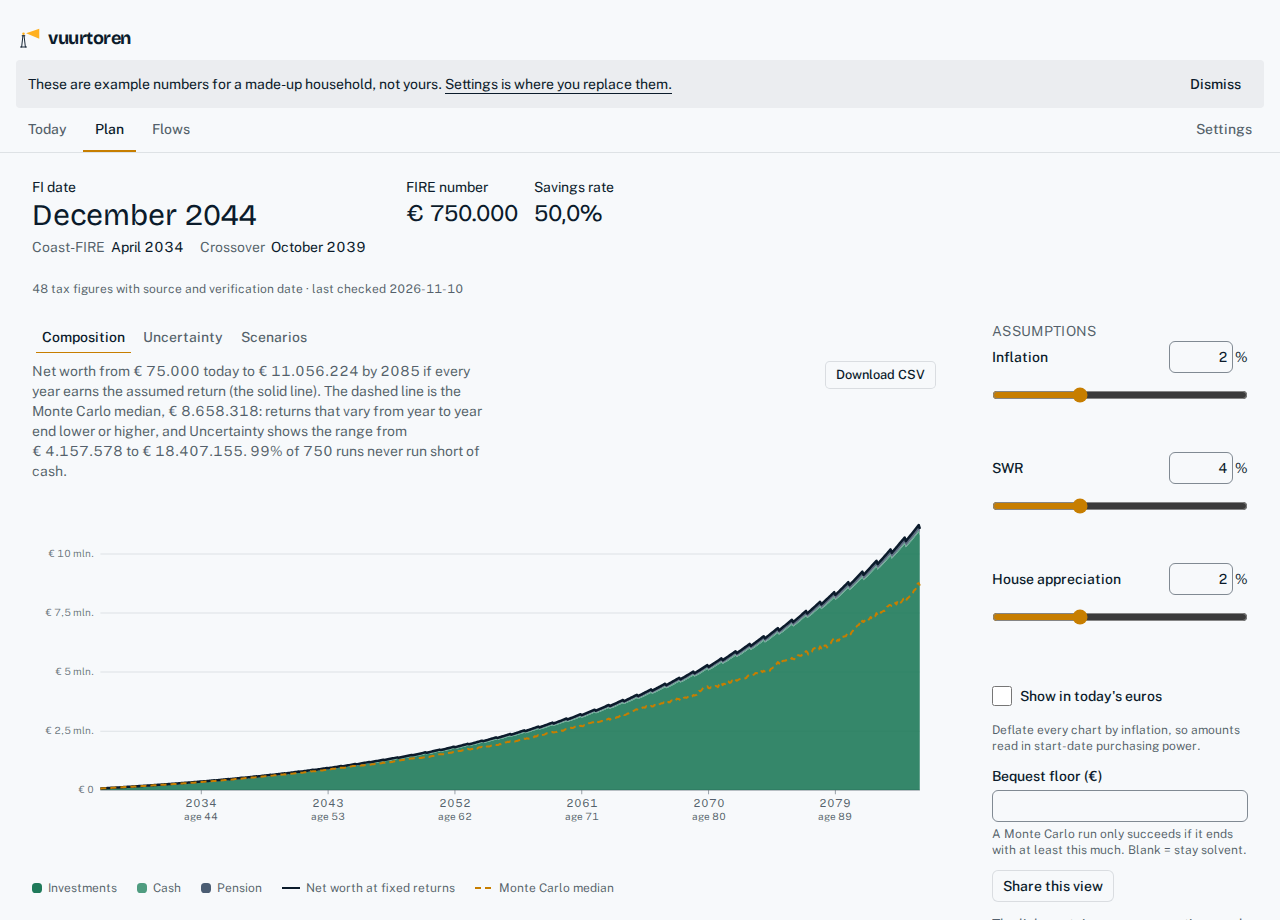
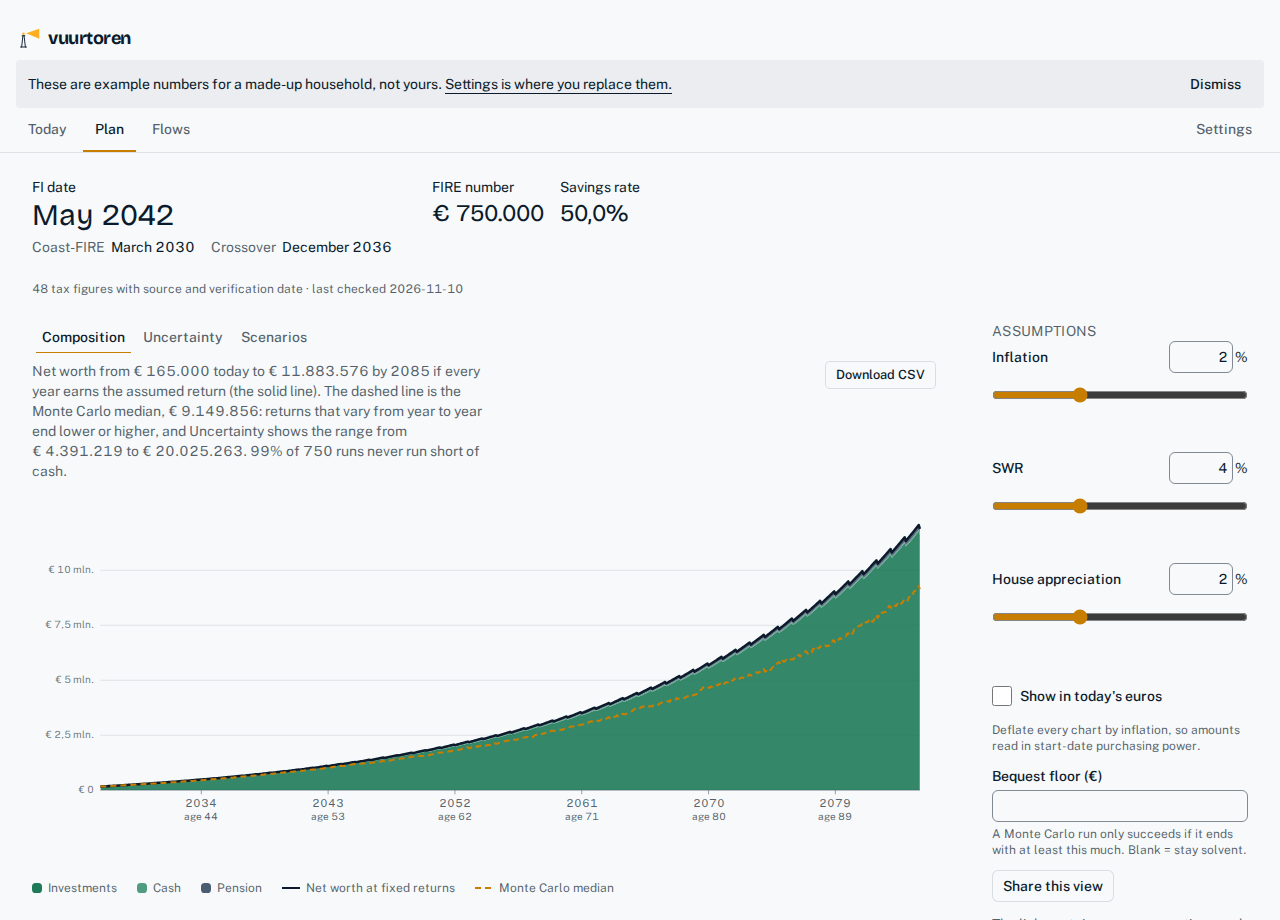
feat: draw the card and the README screenshot from the plain example household
The example now reaches FI in May 2042, so the card no longer needs a card-only
scenario (fund at 125,000). Both images show the same example as the demo.

- scripts/og-card.mjs drops CARD_FUND and reads the example as shipped
- og:image:alt, CONTRIBUTING and the card's source comment say May 2042 / the example household
- og.png and docs/assets/plan.png re-rendered; the og.png?v= hash follows at build time

diff --git a/docs/og-card.html b/docs/og-card.html
@@ -6,9 +6,8 @@
      The lighthouse beam is the Plan's own Monte Carlo fan: the lamp sits at today's net
      worth, the 10th to 90th percentile band is the light cone, the median is its bright
      core, and the thin line is the fixed-return projection. All series are in today's
-     euros, so the FIRE number is one flat shoreline, and they are the card scenario in
-     scripts/og-card.mjs (the example household with a larger fund). The JSON block is
-     rewritten by that script from the running app; never edit it.
+     euros, so the FIRE number is one flat shoreline. They are the example household's. The
+     JSON block is rewritten by that script from the running app; never edit it.
      Text that must be read sits inside the centred 630 px (x 285 to 915). -->
 <style>
   @font-face { font-family: "Bricolage Grotesque"; font-weight: 700; src: url("../frontend/node_modules/@fontsource/bricolage-grotesque/files/bricolage-grotesque-latin-700-normal.woff2"); }
@@ -42,7 +41,7 @@
   <div class="line">A FIRE planner with sourced Dutch tax calculations</div>
   <div class="addr">simonvanlierde.com/vuurtoren</div>
 </div>
-<script id="plan" type="application/json">{"fi":"2042-09-01","fire":750000,"m":["2026-11-01","2026-12-01","2027-01-01","2027-02-01","2027-03-01","2027-04-01","2027-05-01","2027-06-01","2027-07-01","2027-08-01","2027-09-01","2027-10-01","2027-11-01","2027-12-01","2028-01-01","2028-02-01","2028-03-01","2028-04-01","2028-05-01","2028-06-01","2028-07-01","2028-08-01","2028-09-01","2028-10-01","2028-11-01","2028-12-01","2029-01-01","2029-02-01","2029-03-01","2029-04-01","2029-05-01","2029-06-01","2029-07-01","2029-08-01","2029-09-01","2029-10-01","2029-11-01","2029-12-01","2030-01-01","2030-02-01","2030-03-01","2030-04-01","2030-05-01","2030-06-01","2030-07-01","2030-08-01","2030-09-01","2030-10-01","2030-11-01","2030-12-01","2031-01-01","2031-02-01","2031-03-01","2031-04-01","2031-05-01","2031-06-01","2031-07-01","2031-08-01","2031-09-01","2031-10-01","2031-11-01","2031-12-01","2032-01-01","2032-02-01","2032-03-01","2032-04-01","2032-05-01","2032-06-01","2032-07-01","2032-08-01","2032-09-01","2032-10-01","2032-11-01","2032-12-01","2033-01-01","2033-02-01","2033-03-01","2033-04-01","2033-05-01","2033-06-01","2033-07-01","2033-08-01","2033-09-01","2033-10-01","2033-11-01","2033-12-01","2034-01-01","2034-02-01","2034-03-01","2034-04-01","2034-05-01","2034-06-01","2034-07-01","2034-08-01","2034-09-01","2034-10-01","2034-11-01","2034-12-01","2035-01-01","2035-02-01","2035-03-01","2035-04-01","2035-05-01","2035-06-01","2035-07-01","2035-08-01","2035-09-01","2035-10-01","2035-11-01","2035-12-01","2036-01-01","2036-02-01","2036-03-01","2036-04-01","2036-05-01","2036-06-01","2036-07-01","2036-08-01","2036-09-01","2036-10-01","2036-11-01","2036-12-01","2037-01-01","2037-02-01","2037-03-01","2037-04-01","2037-05-01","2037-06-01","2037-07-01","2037-08-01","2037-09-01","2037-10-01","2037-11-01","2037-12-01","2038-01-01","2038-02-01","2038-03-01","2038-04-01","2038-05-01","2038-06-01","2038-07-01","2038-08-01","2038-09-01","2038-10-01","2038-11-01","2038-12-01","2039-01-01","2039-02-01","2039-03-01","2039-04-01","2039-05-01","2039-06-01","2039-07-01","2039-08-01","2039-09-01","2039-10-01","2039-11-01","2039-12-01","2040-01-01","2040-02-01","2040-03-01","2040-04-01","2040-05-01","2040-06-01","2040-07-01","2040-08-01","2040-09-01","2040-10-01","2040-11-01","2040-12-01","2041-01-01","2041-02-01","2041-03-01","2041-04-01","2041-05-01","2041-06-01","2041-07-01","2041-08-01","2041-09-01","2041-10-01","2041-11-01","2041-12-01","2042-01-01","2042-02-01","2042-03-01","2042-04-01","2042-05-01","2042-06-01","2042-07-01","2042-08-01","2042-09-01","2042-10-01","2042-11-01","2042-12-01","2043-01-01","2043-02-01","2043-03-01","2043-04-01","2043-05-01","2043-06-01","2043-07-01","2043-08-01","2043-09-01","2043-10-01","2043-11-01","2043-12-01","2044-01-01","2044-02-01","2044-03-01","2044-04-01","2044-05-01","2044-06-01","2044-07-01","2044-08-01","2044-09-01","2044-10-01","2044-11-01","2044-12-01","2045-01-01","2045-02-01","2045-03-01","2045-04-01","2045-05-01","2045-06-01","2045-07-01","2045-08-01","2045-09-01","2045-10-01","2045-11-01","2045-12-01","2046-01-01","2046-02-01","2046-03-01","2046-04-01","2046-05-01","2046-06-01","2046-07-01","2046-08-01","2046-09-01","2046-10-01","2046-11-01","2046-12-01","2047-01-01","2047-02-01","2047-03-01","2047-04-01","2047-05-01","2047-06-01","2047-07-01","2047-08-01","2047-09-01","2047-10-01","2047-11-01","2047-12-01","2048-01-01","2048-02-01","2048-03-01","2048-04-01","2048-05-01","2048-06-01","2048-07-01","2048-08-01","2048-09-01","2048-10-01","2048-11-01","2048-12-01","2049-01-01","2049-02-01","2049-03-01","2049-04-01","2049-05-01","2049-06-01","2049-07-01","2049-08-01","2049-09-01","2049-10-01","2049-11-01","2049-12-01","2050-01-01","2050-02-01","2050-03-01","2050-04-01","2050-05-01","2050-06-01","2050-07-01","2050-08-01","2050-09-01","2050-10-01","2050-11-01","2050-12-01","2051-01-01","2051-02-01","2051-03-01","2051-04-01","2051-05-01","2051-06-01","2051-07-01","2051-08-01","2051-09-01","2051-10-01","2051-11-01","2051-12-01","2052-01-01","2052-02-01","2052-03-01","2052-04-01","2052-05-01","2052-06-01","2052-07-01","2052-08-01","2052-09-01","2052-10-01","2052-11-01","2052-12-01","2053-01-01","2053-02-01","2053-03-01","2053-04-01","2053-05-01","2053-06-01","2053-07-01","2053-08-01","2053-09-01","2053-10-01","2053-11-01","2053-12-01","2054-01-01","2054-02-01","2054-03-01","2054-04-01","2054-05-01","2054-06-01","2054-07-01","2054-08-01","2054-09-01","2054-10-01","2054-11-01","2054-12-01","2055-01-01","2055-02-01","2055-03-01","2055-04-01","2055-05-01","2055-06-01","2055-07-01","2055-08-01","2055-09-01","2055-10-01","2055-11-01","2055-12-01","2056-01-01","2056-02-01","2056-03-01","2056-04-01","2056-05-01","2056-06-01","2056-07-01","2056-08-01","2056-09-01","2056-10-01","2056-11-01","2056-12-01","2057-01-01","2057-02-01","2057-03-01","2057-04-01","2057-05-01","2057-06-01","2057-07-01","2057-08-01","2057-09-01","2057-10-01","2057-11-01","2057-12-01","2058-01-01","2058-02-01","2058-03-01","2058-04-01","2058-05-01","2058-06-01","2058-07-01","2058-08-01","2058-09-01","2058-10-01","2058-11-01","2058-12-01","2059-01-01","2059-02-01","2059-03-01","2059-04-01","2059-05-01","2059-06-01","2059-07-01","2059-08-01","2059-09-01","2059-10-01","2059-11-01","2059-12-01","2060-01-01","2060-02-01","2060-03-01","2060-04-01","2060-05-01","2060-06-01","2060-07-01","2060-08-01","2060-09-01","2060-10-01","2060-11-01","2060-12-01","2061-01-01","2061-02-01","2061-03-01","2061-04-01","2061-05-01","2061-06-01","2061-07-01","2061-08-01","2061-09-01","2061-10-01"],"fixed":[140000,142919,145374,148281,151190,154102,157016,159932,162856,165789,168731,171684,174647,177619,178614,181602,184597,187603,190619,193645,196681,199727,202783,205849,208926,212013,212166,215271,218379,221498,224626,227766,230916,234076,237247,240429,243621,246824,246377,249600,252826,256059,259304,262559,265825,269102,272390,275689,278999,282320,281260,284603,287949,291300,294663,298036,301420,304816,308224,311642,315072,318514,316829,320295,323764,327236,330719,334212,337718,341235,344764,348305,351857,355421,353098,356688,360283,363881,367485,371102,374731,378372,382025,385690,389367,393057,390082,393799,397521,401247,404978,408720,412474,416241,420021,423813,427618,431435,427794,431641,435494,439350,443212,447082,450964,454860,458768,462690,466624,470572,466252,470231,474216,478206,482202,486202,490215,494242,498282,502335,506403,510483,505469,509584,513704,517830,521962,526098,530245,534405,538580,542768,546970,551186,545464,549712,553967,558227,562493,566765,571048,575344,579655,583981,588321,592675,586237,590622,595013,599410,603814,608223,612644,617080,621530,625996,630476,634971,627804,632327,636858,641395,645938,650489,655051,659628,664221,668829,673452,678091,670180,674845,679517,684197,688883,693576,698282,703004,707742,712495,717264,722050,713381,718190,723007,727832,732664,737503,742356,747225,752110,757012,761930,766864,757422,762379,767343,772316,777296,782285,787287,792306,797342,802395,807464,812551,802321,807428,812543,817666,822798,827938,833093,838265,843454,848661,853885,859127,848093,853353,858622,863899,869185,874479,879790,885118,890464,895828,901210,906610,894757,900173,905597,911031,916475,921927,927396,932883,938389,943913,949456,955017,942329,947903,953487,959081,964685,970298,975929,981578,987247,992934,998640,1004366,990826,996563,1002310,1008067,1013834,1019611,1025406,1031221,1037056,1042909,1048783,1054676,1040268,1046170,1052082,1058005,1063939,1069884,1075847,1081830,1087834,1093857,1099901,1105965,1090672,1096742,1102824,1108916,1115020,1121135,1127270,1133425,1139601,1145797,1152014,1158252,1142057,1148299,1154553,1160818,1167095,1173384,1179693,1186023,1192375,1198748,1205142,1211557,1194442,1200860,1207289,1213730,1220184,1226650,1233137,1239646,1246177,1252729,1259304,1265900,1247848,1254443,1261051,1267672,1274306,1280953,1287621,1294313,1301026,1307762,1314520,1321301,1302293,1309070,1315861,1322665,1329482,1336313,1343167,1350044,1356943,1363866,1370812,1377781,1357798,1364761,1371737,1378728,1385732,1392751,1399794,1406860,1413949,1421063,1428200,1435360,1414383,1421535,1428702,1435883,1443078,1450289,1457523,1464782,1472065,1479373,1486705,1494061,1472071,1479416,1486776,1494150,1501540,1508946,1516377,1523833,1531313,1538819,1546349,1553905,1530882,1538423,1545980,1553553,1561141,1568746,1576377,1584033,1591715,1599422,1607155,1614914,1590815,1598557,1606315,1614089,1621879,1629687,1637522,1645382,1653269,1661182,1669121,1677087,1689637,1697709,1705798,1713904,1722028,1730171,1738341,1746539,1754763,1763016,1771296,1779603,1753301,1761586,1769890,1778211,1786550,1794909,1803295,1811710,1820152,1828623],"p10":[150000,144776,145383,144226,144906,144701,145620,147703,149383,151083,152825,154184,156270,157465,159458,161219,163608,165014,165885,166861,167845,168345,172216,171755,171992,174507,174637,179437,179425,182214,184788,187557,186949,190406,191858,193452,193490,195743,197710,197415,199907,203438,203685,201952,203472,206731,207387,207612,210210,212631,215774,219416,221044,221388,221981,225138,226042,228439,227451,229976,232991,235032,235734,238127,240466,244806,245606,246222,249202,250432,252504,254339,256249,255808,260238,259615,260319,262454,263416,266384,267824,269541,270287,274378,275503,274299,275433,277086,282853,284756,286106,288788,285766,288852,289877,293946,296767,299120,300857,300968,305731,304940,306896,308259,305613,311969,311930,317316,317519,319612,322769,325736,330010,333689,333445,336411,336036,338319,339701,340140,341876,346090,347006,347368,346902,348627,352030,355597,355652,357101,362771,364822,363977,365217,365568,369481,375130,374493,377302,381759,380138,381312,381157,384246,383405,388642,387811,384710,383830,390346,389066,397677,397183,396778,395560,398551,396239,403336,401407,405184,401405,394564,402552,407756,407270,411382,413673,409394,414487,414820,420340,422493,424023,424267,424155,429571,432227,431630,437066,443765,439199,444442,440471,445993,443204,450489,446952,447237,460529,459024,460384,458216,456726,463676,472446,478433,475093,481603,477946,473749,476023,482309,479306,475981,476673,467394,463071,473047,470559,471085,477711,480557,480069,488392,487848,492025,485720,488928,510250,501886,501261,503420,518432,520617,523853,532988,530047,528742,532383,528597,532284,529524,535622,536429,537401,540797,540325,541575,541421,547207,547350,555066,549464,555088,545030,554489,560966,557078,569662,570379,566658,563484,574290,573543,582304,584510,583110,578162,578379,571883,576058,576540,584526,583700,596589,588390,598611,589016,590560,589969,581305,583263,572860,581877,589689,579172,586058,594780,591864,587248,583239,586052,596002,595832,591286,607059,605876,603935,611045,610320,617481,622354,617730,618098,629342,618948,620835,618897,615366,608026,619883,616001,618113,625143,613866,625220,622163,627872,630295,627536,630803,629063,635565,627614,630127,637402,641675,648212,642830,653708,656026,648901,665858,663611,659704,659520,668709,662006,673463,677471,680181,682410,682993,679144,673878,670461,674102,693504,703041,697614,694805,694489,705498,700412,707446,709874,713479,710290,700249,710764,724051,709506,706175,713332,722286,717094,720646,720072,728795,731579,733310,743113,755576,743830,746174,752755,757313,761426,768691,766425,761575,757780,746589,751884,762503,767636,766326,772947,771805,773153,767873,768240,764651,764609,760038,761192,766205,776610,786034,797136,796424,810834,811086,813588,823051,825296,829032,821422,815823,813826,813634,826985,833731,829081,841677,841810,830161,834498,838262,844441,844672,866652,847261,848393,847144,865587,848466,845313,847117,840351],"p50":[150000,153551,155202,157327,159891,163679,166342,168733,171485,174818,178157,181401,182146,185209,186961,190144,193454,195263,196575,200992,204486,206555,209316,211603,215049,218390,216848,218673,220119,224609,227289,227855,231260,234668,238407,242646,244434,247702,249015,252276,255861,257553,259774,263429,264218,267818,271611,273855,278226,280413,279325,281139,283025,286023,290527,291101,294280,299846,301034,303766,308208,310703,309499,309962,315125,314393,319368,322069,328080,331184,334817,337662,343947,346682,344885,349447,350753,353905,352441,358648,360757,362783,364421,368750,374538,377256,376779,382028,387976,390078,393121,394386,398586,400629,405445,411213,415036,416923,415331,420128,424567,425084,430576,432873,434590,438596,440664,440564,445510,452377,449849,452988,455764,459806,468088,470333,473114,476098,481434,483224,487169,492757,492736,495149,500335,506803,503539,506590,509540,517655,518745,519263,525213,527220,526107,530580,535914,535877,546257,546017,552721,557349,556681,562481,568705,572109,565686,576172,578000,577519,583114,588345,591507,591835,600964,601563,607738,611854,603514,604185,612611,613991,621331,625477,624636,630412,631189,630872,631524,643332,637262,648532,649371,650978,660460,666588,666921,675477,675051,681339,680982,682097,678072,683731,684289,694582,688826,694933,703410,701894,707875,713498,719780,722078,723741,720970,730195,737715,743228,749731,749714,754044,754573,757518,772498,776145,769247,768059,768550,767973,775182,781677,791576,795416,807764,810411,809432,813207,803625,809276,817716,816346,815630,820986,823375,824514,832493,829544,828494,836893,829763,837852,837286,839208,851302,852299,847479,854295,860174,867121,866846,884882,861545,876233,869115,876280,875619,884380,887916,892696,902509,897963,906928,911712,913557,922229,928028,926440,926883,946600,946718,945233,946900,952583,954870,963463,966840,966643,968910,962712,965665,968718,974979,972287,971735,978237,977550,989675,978239,987241,982613,996910,1001838,1008369,999835,1006435,1009154,1024675,1041731,1037926,1045826,1045224,1040864,1036342,1033487,1052237,1055953,1067918,1066472,1066718,1076852,1079493,1082269,1086499,1089537,1093952,1093323,1098905,1111182,1122396,1114533,1118922,1133115,1145059,1124530,1122530,1140417,1140151,1145196,1147227,1162789,1135643,1153759,1158982,1165920,1169088,1152805,1159722,1155008,1176292,1166747,1171720,1168284,1181063,1182303,1208116,1201502,1198386,1192542,1204529,1213499,1218356,1221764,1238772,1238232,1247495,1245489,1251803,1252809,1264679,1251496,1263471,1267223,1258485,1256847,1258991,1276911,1290657,1299100,1297912,1301635,1302049,1302568,1310742,1307651,1294077,1306316,1302583,1295012,1321056,1334789,1348068,1349833,1362294,1354718,1341966,1356176,1366587,1358583,1367664,1386672,1385475,1393220,1387603,1411820,1406934,1406665,1404365,1400732,1417167,1428559,1425893,1421629,1425219,1416741,1427990,1453007,1446052,1449095,1448067,1466232,1473627,1467860,1473205,1486748,1486626,1491415,1486301,1488600,1496408,1490765,1494668,1511069,1508506,1529702,1520031,1535995,1532680,1548738,1544801],"p90":[150000,161220,165966,170639,177375,181874,187724,190710,196407,199446,204637,209883,214443,218455,221545,225095,229750,233669,237586,245262,249607,253842,259884,263819,266162,274322,265071,269812,271668,278439,283984,291287,292677,299219,305736,310409,314005,319170,313042,314304,322980,325739,337455,340687,347067,349023,355290,362413,364914,369595,355259,363982,367329,376375,379899,382692,393723,398566,402337,404471,408858,419225,399457,408250,421948,422864,430369,429264,429000,444800,448610,457274,459111,469432,456177,463384,465750,471518,468291,475463,482360,494469,493460,502146,507192,518533,505528,509795,513492,525925,527505,540930,548643,554419,560365,571591,579138,580835,566258,567327,573493,580198,593157,600345,609611,615672,614032,627142,647241,641098,613496,618200,632243,635492,640219,652259,660965,668673,665635,682154,690828,693603,678108,685994,693848,702285,704605,713830,720546,732408,747908,750647,759982,766256,742572,742289,752496,754513,767696,773934,792913,792403,809897,817621,833120,833288,803272,809783,810306,826059,837215,865258,865162,864675,882450,898934,904518,912966,878423,882500,900200,899469,910701,925831,946806,940868,966335,974302,963736,994553,946461,970198,965001,974711,984795,990388,996537,1004998,1018155,1023129,1036389,1048339,1000862,1014175,1017499,1035933,1048108,1052840,1061318,1077955,1069670,1081370,1097650,1108708,1091796,1093180,1099560,1114582,1135269,1140705,1145372,1152383,1180706,1183445,1178961,1187833,1161105,1174734,1192443,1198816,1196708,1228748,1223841,1249062,1248167,1247538,1240423,1276244,1225431,1243822,1245383,1273741,1245140,1291356,1284228,1328800,1320151,1319732,1321106,1353419,1303856,1324184,1351091,1349866,1348731,1370404,1360132,1378395,1411159,1418409,1453686,1441437,1414018,1415643,1429747,1424985,1465975,1482500,1487128,1487989,1494860,1509431,1522199,1559837,1482576,1490054,1499572,1525647,1535388,1545457,1561095,1583502,1616300,1625549,1632585,1609254,1577336,1577914,1583147,1605370,1629911,1630066,1662467,1636619,1650553,1658957,1654327,1682899,1661624,1671875,1692568,1700780,1701558,1721295,1740225,1768136,1814133,1767071,1814695,1819514,1770452,1778372,1805351,1797018,1814945,1842651,1872966,1882503,1897671,1906859,1878973,1917237,1870232,1874952,1855806,1861030,1889423,1908415,1899791,1923089,1947999,1992864,2002797,2020175,1959597,1982760,1950634,1936287,1974983,2017221,2018632,2007226,2029574,2053814,2058768,2108609,2055991,2037621,2048447,2035808,2052102,2090590,2124867,2119144,2139184,2158909,2184636,2183016,2091738,2126208,2131733,2139727,2146534,2185294,2228075,2245118,2245278,2268536,2288248,2285639,2224743,2243705,2303580,2269353,2267416,2267187,2306880,2291601,2297666,2295399,2337784,2347641,2291081,2316202,2332155,2341331,2298652,2309807,2362139,2380476,2384228,2377266,2407895,2416015,2377313,2358269,2421534,2428373,2393886,2427967,2424202,2420050,2411641,2433610,2453112,2499059,2442302,2447737,2505346,2493653,2488175,2507055,2575159,2540420,2546568,2559153,2568830,2632331,2490602,2526719,2537842,2549111,2589458,2619396,2649678,2645149,2661222,2663063,2659508,2655123,2603646,2636216,2616848,2668148,2647915,2668003,2624038,2711669,2692450,2744974]}</script>
+<script id="plan" type="application/json">{"fi":"2042-05-01","fire":750000,"m":["2026-11-01","2026-12-01","2027-01-01","2027-02-01","2027-03-01","2027-04-01","2027-05-01","2027-06-01","2027-07-01","2027-08-01","2027-09-01","2027-10-01","2027-11-01","2027-12-01","2028-01-01","2028-02-01","2028-03-01","2028-04-01","2028-05-01","2028-06-01","2028-07-01","2028-08-01","2028-09-01","2028-10-01","2028-11-01","2028-12-01","2029-01-01","2029-02-01","2029-03-01","2029-04-01","2029-05-01","2029-06-01","2029-07-01","2029-08-01","2029-09-01","2029-10-01","2029-11-01","2029-12-01","2030-01-01","2030-02-01","2030-03-01","2030-04-01","2030-05-01","2030-06-01","2030-07-01","2030-08-01","2030-09-01","2030-10-01","2030-11-01","2030-12-01","2031-01-01","2031-02-01","2031-03-01","2031-04-01","2031-05-01","2031-06-01","2031-07-01","2031-08-01","2031-09-01","2031-10-01","2031-11-01","2031-12-01","2032-01-01","2032-02-01","2032-03-01","2032-04-01","2032-05-01","2032-06-01","2032-07-01","2032-08-01","2032-09-01","2032-10-01","2032-11-01","2032-12-01","2033-01-01","2033-02-01","2033-03-01","2033-04-01","2033-05-01","2033-06-01","2033-07-01","2033-08-01","2033-09-01","2033-10-01","2033-11-01","2033-12-01","2034-01-01","2034-02-01","2034-03-01","2034-04-01","2034-05-01","2034-06-01","2034-07-01","2034-08-01","2034-09-01","2034-10-01","2034-11-01","2034-12-01","2035-01-01","2035-02-01","2035-03-01","2035-04-01","2035-05-01","2035-06-01","2035-07-01","2035-08-01","2035-09-01","2035-10-01","2035-11-01","2035-12-01","2036-01-01","2036-02-01","2036-03-01","2036-04-01","2036-05-01","2036-06-01","2036-07-01","2036-08-01","2036-09-01","2036-10-01","2036-11-01","2036-12-01","2037-01-01","2037-02-01","2037-03-01","2037-04-01","2037-05-01","2037-06-01","2037-07-01","2037-08-01","2037-09-01","2037-10-01","2037-11-01","2037-12-01","2038-01-01","2038-02-01","2038-03-01","2038-04-01","2038-05-01","2038-06-01","2038-07-01","2038-08-01","2038-09-01","2038-10-01","2038-11-01","2038-12-01","2039-01-01","2039-02-01","2039-03-01","2039-04-01","2039-05-01","2039-06-01","2039-07-01","2039-08-01","2039-09-01","2039-10-01","2039-11-01","2039-12-01","2040-01-01","2040-02-01","2040-03-01","2040-04-01","2040-05-01","2040-06-01","2040-07-01","2040-08-01","2040-09-01","2040-10-01","2040-11-01","2040-12-01","2041-01-01","2041-02-01","2041-03-01","2041-04-01","2041-05-01","2041-06-01","2041-07-01","2041-08-01","2041-09-01","2041-10-01","2041-11-01","2041-12-01","2042-01-01","2042-02-01","2042-03-01","2042-04-01","2042-05-01","2042-06-01","2042-07-01","2042-08-01","2042-09-01","2042-10-01","2042-11-01","2042-12-01","2043-01-01","2043-02-01","2043-03-01","2043-04-01","2043-05-01","2043-06-01","2043-07-01","2043-08-01","2043-09-01","2043-10-01","2043-11-01","2043-12-01","2044-01-01","2044-02-01","2044-03-01","2044-04-01","2044-05-01","2044-06-01","2044-07-01","2044-08-01","2044-09-01","2044-10-01","2044-11-01","2044-12-01","2045-01-01","2045-02-01","2045-03-01","2045-04-01","2045-05-01","2045-06-01","2045-07-01","2045-08-01","2045-09-01","2045-10-01","2045-11-01","2045-12-01","2046-01-01","2046-02-01","2046-03-01","2046-04-01","2046-05-01","2046-06-01","2046-07-01","2046-08-01","2046-09-01","2046-10-01","2046-11-01","2046-12-01","2047-01-01","2047-02-01","2047-03-01","2047-04-01","2047-05-01","2047-06-01","2047-07-01","2047-08-01","2047-09-01","2047-10-01","2047-11-01","2047-12-01","2048-01-01","2048-02-01","2048-03-01","2048-04-01","2048-05-01","2048-06-01","2048-07-01","2048-08-01","2048-09-01","2048-10-01","2048-11-01","2048-12-01","2049-01-01","2049-02-01","2049-03-01","2049-04-01","2049-05-01","2049-06-01","2049-07-01","2049-08-01","2049-09-01","2049-10-01","2049-11-01","2049-12-01","2050-01-01","2050-02-01","2050-03-01","2050-04-01","2050-05-01","2050-06-01","2050-07-01","2050-08-01","2050-09-01","2050-10-01","2050-11-01","2050-12-01","2051-01-01","2051-02-01","2051-03-01","2051-04-01","2051-05-01","2051-06-01","2051-07-01","2051-08-01","2051-09-01","2051-10-01","2051-11-01","2051-12-01","2052-01-01","2052-02-01","2052-03-01","2052-04-01","2052-05-01","2052-06-01","2052-07-01","2052-08-01","2052-09-01","2052-10-01","2052-11-01","2052-12-01","2053-01-01","2053-02-01","2053-03-01","2053-04-01","2053-05-01","2053-06-01","2053-07-01","2053-08-01","2053-09-01","2053-10-01","2053-11-01","2053-12-01","2054-01-01","2054-02-01","2054-03-01","2054-04-01","2054-05-01","2054-06-01","2054-07-01","2054-08-01","2054-09-01","2054-10-01","2054-11-01","2054-12-01","2055-01-01","2055-02-01","2055-03-01","2055-04-01","2055-05-01","2055-06-01","2055-07-01","2055-08-01","2055-09-01","2055-10-01","2055-11-01","2055-12-01","2056-01-01","2056-02-01","2056-03-01","2056-04-01","2056-05-01","2056-06-01","2056-07-01","2056-08-01","2056-09-01","2056-10-01","2056-11-01","2056-12-01","2057-01-01","2057-02-01","2057-03-01","2057-04-01","2057-05-01","2057-06-01","2057-07-01","2057-08-01","2057-09-01","2057-10-01","2057-11-01","2057-12-01","2058-01-01","2058-02-01","2058-03-01","2058-04-01","2058-05-01","2058-06-01","2058-07-01","2058-08-01","2058-09-01","2058-10-01","2058-11-01","2058-12-01","2059-01-01","2059-02-01","2059-03-01","2059-04-01","2059-05-01","2059-06-01","2059-07-01","2059-08-01","2059-09-01","2059-10-01","2059-11-01","2059-12-01","2060-01-01","2060-02-01","2060-03-01","2060-04-01","2060-05-01","2060-06-01","2060-07-01","2060-08-01","2060-09-01","2060-10-01","2060-11-01","2060-12-01","2061-01-01","2061-02-01","2061-03-01","2061-04-01","2061-05-01","2061-06-01","2061-07-01","2061-08-01","2061-09-01","2061-10-01"],"fixed":[155000,157969,160420,163378,166338,169300,172266,175233,178208,181192,184187,187191,190205,193230,193937,196979,200026,203083,206150,209228,212316,215415,218523,221642,224772,227912,227782,230941,234103,237274,240456,243648,246851,250065,253289,256524,259770,263027,262291,265569,268850,272137,275435,278744,282064,285396,288738,292092,295457,298833,297477,300876,304278,307684,311101,314530,317969,321421,324883,328358,331844,335341,333354,336876,340402,343932,347470,351020,354582,358155,361741,365338,368948,372569,369936,373584,377237,380893,384555,388229,391914,395613,399323,403046,406782,410530,407237,411014,414795,418581,422372,426172,429985,433810,437648,441499,445363,449240,445275,449182,453095,457013,460935,464864,468806,472761,476730,480711,484706,488714,484062,488103,492150,496202,500259,504322,508396,512483,516584,520699,524828,528970,523616,527792,531973,536160,540353,544551,548760,552982,557218,561469,565733,570012,563946,568257,572573,576896,581224,585559,589904,594264,598638,603027,607431,611849,605061,609508,613962,618423,622890,627364,631849,636349,640863,645393,649938,654499,646974,651562,656156,660758,665366,669981,674608,679251,683909,688583,693272,697978,689702,694432,699170,703915,708667,713427,718199,722987,727792,732612,737449,742301,733260,738136,743019,747911,752810,757717,762637,767574,772527,777497,782484,787487,777665,782689,787721,792762,797811,802868,807939,813027,818132,823255,828394,833550,822932,828108,833292,838485,843686,848896,854121,859364,864624,869901,875196,880509,869080,874410,879749,885096,890453,895819,901201,906601,912019,917455,922909,928381,916124,921611,927108,932614,938129,943654,949196,954756,960335,965932,971548,977183,964083,969730,975388,981055,986732,992419,998124,1003847,1009590,1015352,1021133,1026934,1012974,1018785,1024606,1030437,1036279,1042132,1048002,1053893,1059803,1065733,1071682,1077652,1062815,1068793,1074781,1080780,1086790,1092811,1098851,1104911,1110991,1117092,1123214,1129355,1113626,1119773,1125931,1132101,1138282,1144475,1150687,1156921,1163175,1169450,1175747,1182064,1165423,1171743,1178075,1184419,1190775,1197143,1203532,1209942,1216373,1222826,1229301,1235797,1218228,1224724,1231233,1237755,1244289,1250835,1257403,1263994,1270606,1277240,1283896,1290575,1272059,1278736,1285425,1292127,1298843,1305571,1312322,1319096,1325892,1332711,1339553,1346418,1326937,1333797,1340670,1347557,1354457,1361372,1368309,1375270,1382254,1389261,1396292,1403347,1382881,1389928,1396989,1404064,1411153,1418257,1425385,1432536,1439712,1446911,1454135,1461382,1439914,1447151,1454403,1461670,1468952,1476249,1483570,1490916,1498287,1505682,1513102,1520546,1498055,1505487,1512934,1520396,1527874,1535368,1542887,1550431,1558001,1565595,1573215,1580861,1557327,1564957,1572603,1580264,1587942,1595637,1603357,1611103,1618876,1626674,1634498,1642348,1617752,1625584,1633432,1641297,1649178,1657078,1665003,1672956,1680935,1688940,1696972,1705032,1717088,1725252,1733433,1741632,1749848,1758084,1766348,1774639,1782957,1791304,1799678,1808081,1781275,1789654,1798051,1806467,1814900,1823354,1831835,1840345,1848884,1857450],"p10":[165000,158877,159326,157715,158142,157623,158320,160355,161862,163684,165291,166451,168612,169744,171833,173148,175677,177258,177829,178513,179709,179840,183782,183223,183135,185780,185788,190723,190723,193251,196288,198405,197942,201927,203247,204429,204522,206913,208525,208321,210890,214055,214314,212207,213788,217047,217410,217203,220028,222960,225753,229756,231141,232126,231178,235099,237322,238658,237805,239068,243295,245059,245725,248292,250609,255369,255386,256870,260248,260061,262354,264796,265546,266261,269738,269510,269197,271632,273870,277758,279077,278906,279854,284953,284264,284579,285877,287715,293886,295904,296025,298179,295727,298509,299423,303703,306649,308218,310786,311075,315859,315777,316067,317238,314006,320566,320316,326039,326975,329143,330503,335685,338931,343359,341738,346247,347062,348007,349594,349915,352243,355975,356067,355776,356848,357989,360721,365518,365118,365427,371986,374721,372621,373603,375443,378767,383686,384253,385236,390459,389606,390030,391228,393912,395318,397504,397213,395257,393139,398648,397387,406272,405550,406372,405499,405740,406682,412608,412745,415752,410653,403394,412145,416454,416230,420714,421383,419299,423126,425661,429409,432447,433226,433864,431056,437845,441694,440009,446065,452124,447564,452940,450382,456045,455075,460394,455984,455968,468971,466246,468603,467527,464681,472553,482638,487374,484958,489797,488211,483748,483751,491310,488106,485131,485248,476402,473302,481530,477493,479031,488293,489885,489691,497670,496814,502855,494094,499316,517041,509267,510475,510566,527885,531747,533295,541483,539283,539560,540638,536087,539389,536367,547756,546590,547438,550220,548010,549548,555041,557457,556475,564035,561172,563865,553485,564241,570679,566241,576738,579694,576057,572584,583197,580634,589617,592133,592269,590541,587808,584125,585154,586626,596759,593563,605721,598089,607758,597971,600057,598259,592164,593128,584191,591576,598226,589516,598552,602731,602374,594890,593685,594265,603984,607431,599027,615685,616279,616877,617571,622761,627589,632150,627484,627658,637123,627024,631383,626969,625682,616995,628983,624546,628135,630245,622922,631376,629888,633793,637235,637094,638881,636643,644703,635012,638279,646695,649754,654894,651916,663425,665961,654272,672071,671649,668136,668260,676235,670384,681083,689815,687267,693322,691204,685682,687230,680219,685420,702744,712755,703266,707149,705522,714224,710691,715548,720390,722502,721024,708859,718760,729528,718737,716112,722421,732510,725848,727229,727136,737608,741419,741741,749961,764461,751851,754764,756987,764114,770169,776402,774650,771576,765414,759048,761366,768966,776565,776421,782475,779987,783130,779719,776281,773104,772649,767651,770451,775728,785628,798393,808538,803352,821137,819186,821043,831976,832530,835521,830872,826868,820139,822932,835195,840854,838500,851263,854416,840334,845549,844432,856835,854776,873296,860481,857566,855507,875683,857169,853037,854807,847120],"p50":[165000,168655,170283,172238,174825,178752,181350,183801,186646,189870,193398,196584,197228,200418,202176,205011,208489,210664,211541,216068,219643,221718,224587,227028,230229,233686,231996,233697,235155,239598,242144,242933,246234,249565,253213,258453,259312,262751,263731,267754,270733,272591,274734,278691,279179,282945,286526,288891,293826,295556,294981,295239,297655,301336,305913,305277,309958,314873,316250,319101,323243,326189,324304,324983,329383,328973,334394,336926,343582,346798,349980,352319,359240,361241,360755,364796,366117,370295,367663,372783,377035,378553,380271,383611,391260,393295,391717,397193,403437,405305,408267,410578,415088,415998,420371,426770,431326,433135,430117,435969,440489,440205,446372,449211,449734,455970,457397,457031,461895,469246,464558,469245,471465,476677,485359,486850,488298,494014,496700,500117,503576,508738,508188,511499,517064,522138,520431,522516,526338,534778,536444,535893,540823,542963,542503,547265,551678,551287,562220,562519,569096,575352,574002,580973,585174,587991,582994,591830,595748,593605,600271,604108,609479,608641,618640,620067,624780,629486,620105,620419,630997,629217,638405,642847,641737,647603,647636,648717,648840,658786,654649,666175,666213,667268,677743,684793,685092,692124,692830,697770,698325,700166,695866,700287,701815,711298,705678,714511,720360,718562,727742,733536,737671,739486,740611,740036,749080,756437,763621,766701,767465,773781,773047,777498,791002,794779,786799,786154,787067,784917,793766,801089,810232,814463,825039,828397,825580,833298,822544,828962,835288,836088,834782,839178,839431,843604,849910,850246,846921,857470,848813,854697,854796,858010,869272,868265,867038,872371,876957,884531,886837,903194,883023,895512,887071,895040,895926,899886,905629,912447,923721,917694,927615,931925,934031,941908,945683,943890,947075,964348,966153,963802,966483,974004,972107,985111,988877,985474,989124,980079,982109,988115,994742,991323,992603,994220,997502,1007811,998821,1008524,1001997,1013711,1020549,1025103,1021317,1023552,1026782,1046531,1061544,1057243,1067187,1062931,1060596,1052710,1055372,1070112,1073112,1085023,1086185,1084641,1093094,1101005,1102377,1109089,1111005,1111946,1113430,1117125,1134916,1143892,1134316,1141191,1154700,1165932,1139841,1141985,1156425,1156939,1164047,1168895,1183492,1155336,1173656,1182863,1184821,1189590,1174100,1181050,1174090,1193622,1185434,1191841,1189110,1201430,1198327,1232050,1225121,1214805,1212610,1222379,1234482,1238908,1241977,1259859,1261077,1270834,1266140,1270660,1273359,1290035,1274080,1281013,1286003,1280787,1281524,1276279,1301111,1311615,1318813,1322711,1325096,1320453,1322893,1332930,1324278,1310067,1329116,1327100,1315128,1337318,1357326,1365555,1368184,1383577,1374860,1363601,1374263,1390072,1378067,1393269,1407176,1410943,1416901,1410785,1434562,1430502,1428736,1424188,1424022,1438489,1450618,1446143,1442060,1442172,1436725,1451525,1470650,1466303,1472451,1468239,1491133,1493617,1493674,1492803,1507848,1509550,1510090,1512132,1510387,1517573,1514949,1517951,1535299,1530796,1550371,1546318,1556686,1561988,1575027,1565853],"p90":[165000,177257,182097,187022,194302,199006,205037,208342,214180,217510,223003,228198,232995,237293,240478,244022,248764,252954,256658,265340,269624,274010,280314,284343,286100,295510,285138,289336,291739,298931,304713,311729,313584,320616,326813,331823,335935,339806,334325,335151,345138,347306,358586,363227,369264,371353,377494,384946,386836,392701,377899,385852,389296,398183,402960,404203,414935,421067,425323,427710,432734,442524,423045,430437,443759,443397,455728,450633,454174,468351,472526,481813,480822,494096,476907,485868,489520,494324,491384,497367,507262,517833,517804,525644,531139,544320,530153,534315,537303,550234,552558,568299,573594,580642,586087,594756,602919,608370,592316,592539,600025,606791,616910,624813,635729,643910,643059,653004,674120,668029,637066,643916,655932,661731,667716,676169,683921,695203,692151,706902,717755,720150,704842,715639,719455,729536,729795,738169,747515,761161,774502,777433,791674,793814,770454,771964,779956,782352,799948,801807,818429,821577,835112,844219,862314,858173,832545,839055,839868,853894,868222,893781,897185,898699,911821,930158,931495,943265,906059,911558,928163,928587,936645,957532,976993,969065,997682,1006157,996350,1025108,976194,1001857,996970,1005993,1018250,1021481,1026496,1034804,1045542,1053528,1066959,1079520,1030397,1042964,1047871,1073067,1078174,1087477,1088580,1107225,1100472,1112445,1127322,1142715,1126069,1128252,1135046,1151800,1169128,1175168,1183282,1184023,1213375,1219806,1211303,1218893,1193806,1206976,1228935,1233579,1228870,1265124,1257298,1281578,1283888,1283118,1279130,1311595,1259157,1277075,1284028,1308269,1286834,1330678,1317120,1363781,1351908,1350255,1354392,1395683,1344327,1364120,1386804,1392158,1385350,1406046,1394396,1414841,1449971,1454884,1488842,1482156,1448707,1455662,1470963,1466432,1502716,1517433,1525966,1526237,1532194,1544556,1562099,1598946,1515997,1528255,1533654,1561233,1573816,1594638,1601923,1617649,1654887,1678544,1675652,1651824,1615929,1620342,1625191,1646455,1670218,1677555,1696685,1679805,1691133,1698508,1692323,1732647,1704359,1713682,1738205,1745780,1749320,1749925,1786449,1810004,1856402,1810340,1856252,1864677,1806833,1820532,1849645,1840113,1862965,1894492,1924788,1919442,1945650,1943019,1929137,1959028,1919444,1916228,1900397,1907434,1932278,1951890,1938596,1980364,1990932,2043557,2040012,2059509,2001765,2026295,2001534,1986238,2025439,2057331,2062636,2038698,2077586,2094348,2118535,2153144,2098406,2090122,2096507,2094102,2105688,2130737,2171085,2163376,2181636,2208256,2227281,2225988,2138332,2166695,2176551,2185744,2194990,2232258,2272107,2284885,2283395,2316807,2328636,2344801,2271445,2295426,2349148,2317733,2328659,2325796,2345066,2351120,2347427,2340370,2381102,2395431,2326711,2357504,2369219,2391257,2343933,2361287,2407167,2424359,2436042,2425226,2463172,2464077,2425446,2404363,2463060,2474485,2447501,2479325,2471201,2472928,2466274,2480132,2499559,2551420,2486137,2493651,2546969,2539863,2529771,2567522,2621040,2584342,2611852,2609125,2615992,2676680,2540886,2565902,2578659,2588302,2641795,2654965,2694471,2688386,2701245,2714502,2706189,2706876,2653767,2686085,2665050,2716657,2686727,2712178,2677689,2751777,2739593,2790725]}</script>
 <script>
   const P = JSON.parse(document.getElementById("plan").textContent);
   const NS = "http://www.w3.org/2000/svg";

diff --git a/frontend/index.html b/frontend/index.html
@@ -26,7 +26,7 @@
     <meta property="og:image" content="https://simonvanlierde.com/vuurtoren/og.png" />
     <meta property="og:image:width" content="1200" />
     <meta property="og:image:height" content="630" />
-    <meta property="og:image:alt" content="The vuurtoren example plan drawn as a lighthouse beam: today's net worth fans out as the Monte Carlo range and reaches the FIRE number at a financial independence date of September 2042.\" />
+    <meta property="og:image:alt" content="The vuurtoren example plan drawn as a lighthouse beam: today's net worth fans out as the Monte Carlo range and reaches the FIRE number at a financial independence date of May 2042.\" />
     <meta name="twitter:card" content="summary_large_image" />
     <title>vuurtoren</title>
   </head>

diff --git a/CONTRIBUTING.md b/CONTRIBUTING.md
@@ -50,8 +50,7 @@ run `just mutation-baseline` to accept it.
 ## The social card
 
 `frontend/public/og.png` is the link-preview image. `just og-card` rebuilds it: it serves
-the example household, applies the card's scenario (a larger index fund, set in
-`scripts/og-card.mjs`), reads the Plan's series and FI date from the running app into
+the example household, reads the Plan's series and FI date from the running app into
 `docs/og-card.html`, and renders that page with Playwright's Chromium. Rerun it after a
 change to the example household or the tax figures, and keep `og:image:alt` in
 `frontend/index.html` in step (the script fails when the date differs).
